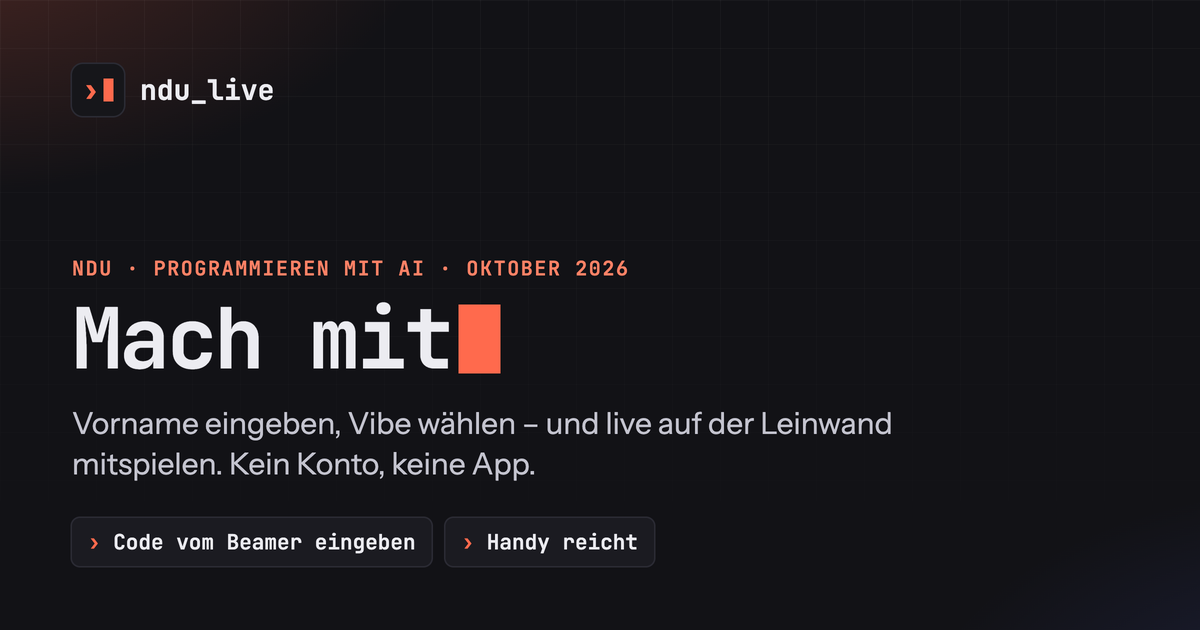
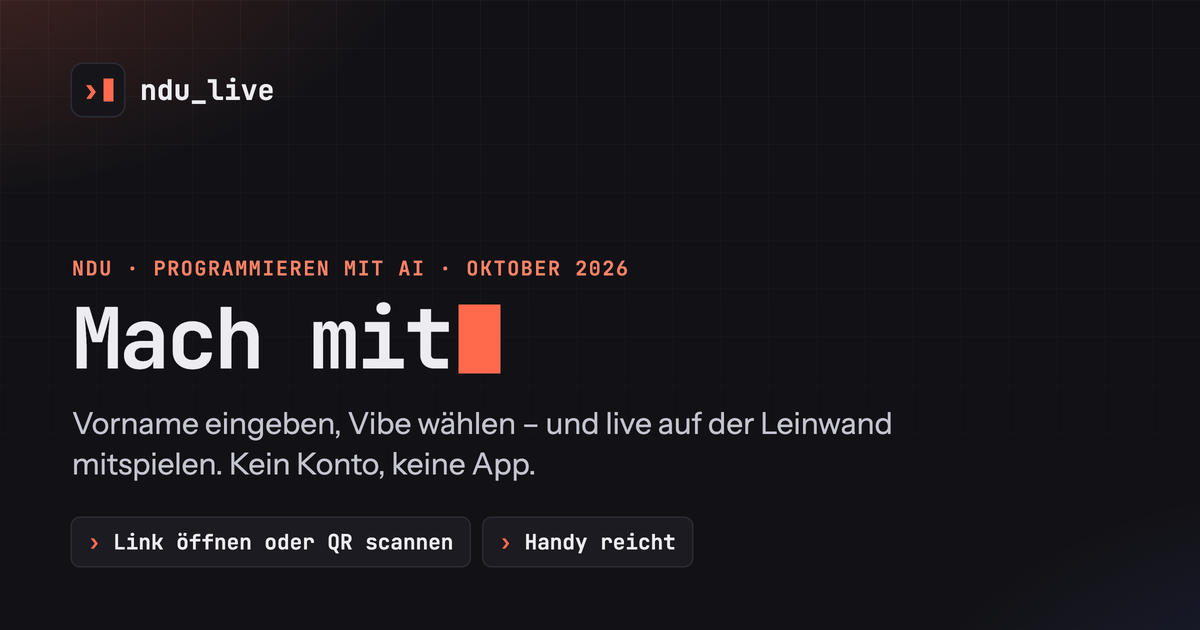
Link-Vorschau: Befunde aus dem Review
- Bild: „Link öffnen oder QR scannen“ statt „Code vom Beamer eingeben“
  (geteilte Links enthalten den Code schon)
- Titel in einer Konstante; Kommentar: nach Domainwechsel neu deployen

Claude-Session: https://claude.ai/code/session_01C9bsZbLH2yKmZGvFY2iieg

Changed region(s): [[0.0925, 0.8444, 0.5858, 0.8746]]

diff --git a/src/app/layout.tsx b/src/app/layout.tsx
@@ -9,7 +9,9 @@ const sans = Instrument_Sans({ subsets: ["latin", "latin-ext"], variable: "--nf-
 const mono = JetBrains_Mono({ subsets: ["latin", "latin-ext"], variable: "--nf-code", display: "swap" });
 
 // Link-Vorschau in WhatsApp, Teams & Co.: Das Bild liegt als src/app/opengraph-image.png daneben (Next setzt
-// og:image selbst). Die absolute Adresse nimmt Next auf Vercel aus der Produktions-Domain – kein metadataBase nötig.
+// og:image selbst). Die absolute Adresse nimmt Next auf Vercel beim Build aus der Produktions-Domain – kein
+// metadataBase nötig; nach einem Domainwechsel einmal neu deployen.
+const title = "NDU Live · Mach mit";
 const description = "Vorname eingeben, Vibe wählen – und live auf der Leinwand mitspielen. Kein Konto, keine App.";
 
 export const metadata: Metadata = {
@@ -19,10 +21,10 @@ export const metadata: Metadata = {
     type: "website",
     siteName: "NDU Live",
     locale: "de_AT",
-    title: "NDU Live · Mach mit",
+    title,
     description,
   },
-  twitter: { card: "summary_large_image", title: "NDU Live · Mach mit", description },
+  twitter: { card: "summary_large_image", title, description },
 };
 
 // Kein maximumScale: Zoomen sperren schadet der Barrierefreiheit. Gegen das Auto-Zoom von iOS
